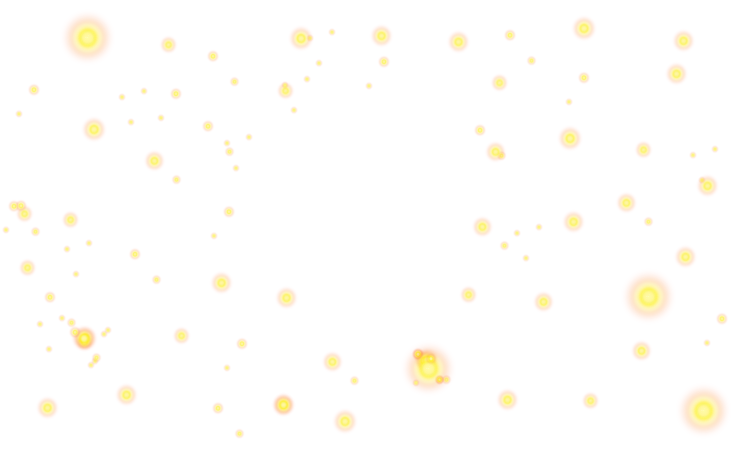
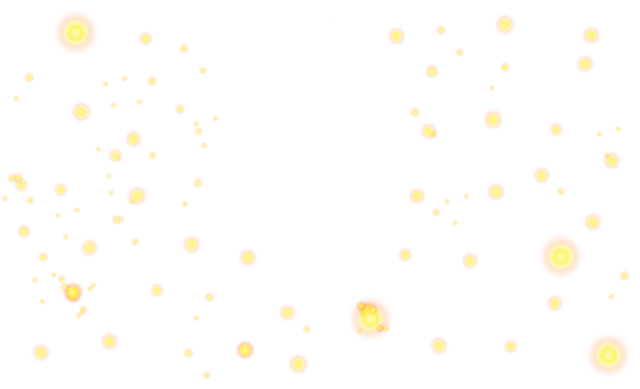
Animated star, fixed background image issue and changed year.

diff --git a/newyear.css b/newyear.css
@@ -25,6 +25,28 @@ body {
     -webkit-background-size:cover;
     background-position:center;
     z-index:4;
+    animation: star-glow 1s infinite;
+}
+
+@keyframes star-glow{
+    0%{
+        filter:brightness(100%);
+    }
+    20%{
+        filter:brightness(75%);
+    }
+    40%{
+        filter:brightness(50%);
+    }
+    60%{
+        filter:brightness(50%);
+    }
+    80%{
+        filter:brightness(70%);
+    }
+    100%{
+        filter:brightness(100%);
+    }
 }
 
 .sun,
@@ -70,13 +92,6 @@ body {
     }
 }
 
-/*.sun img{
-    width:inherit;
-    height:inherit;
-    outline:none;
-    border:0;
-}*/
-
 .year{
     position:absolute;
     top:35%;
@@ -119,9 +134,9 @@ body {
     transform:
           translate(-50%,-80px)
           scale(0);
-    width:100px;
+    width:120px;
     height:60px;
-    font-size:0.7em;
+    font-size:0.9em;
     font-weight:900;
     font-family:roboto, sans-serif;
     text-align:center;
@@ -157,7 +172,7 @@ body {
     100%{
         transform:
         translate(-50%,-50%)
-        rotateZ(360deg);
+        rotateZ(-360deg);
     }
 }
 
@@ -175,3 +190,4 @@ body {
             center bottom;
     }
 }
+

diff --git a/index.html b/index.html
@@ -11,7 +11,7 @@
 
 	 <div class="sun">
            <div class="year">
-               2020
+               2021
            </div>
         </div>
         <div class="orbit">
@@ -25,7 +25,7 @@
                  Happy New Year 
                  <span style="font-size:20px">&#x1F60A;</span>   
                 </div> 
-                <img src="images\earth.png"/>     
+                <img id="earth-img" src="images\earth.png"/>     
             </div>
         </div>
 

diff --git a/newyear.js b/newyear.js
@@ -2,8 +2,6 @@ window.onload=function(){
   let year= document.querySelector(".year");
   
   setTimeout(()=>{
-      year.textContent="2021";
+      year.textContent="2022";
   },2000);
-  
-  
 }
